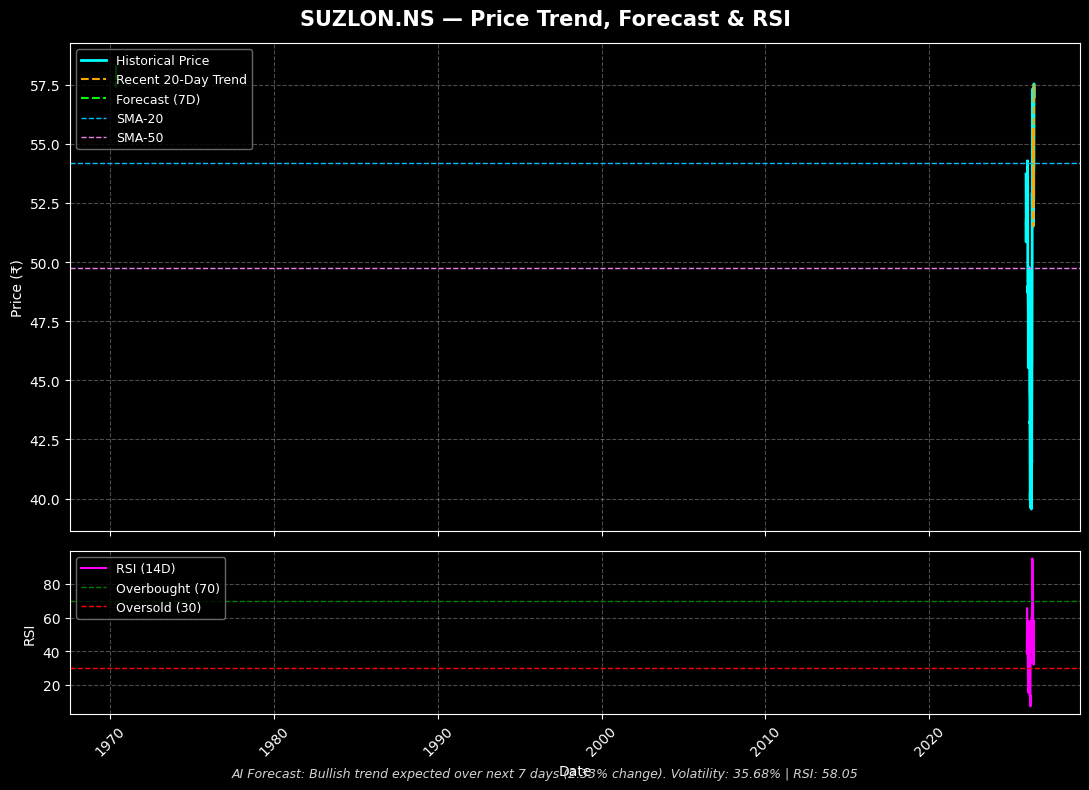
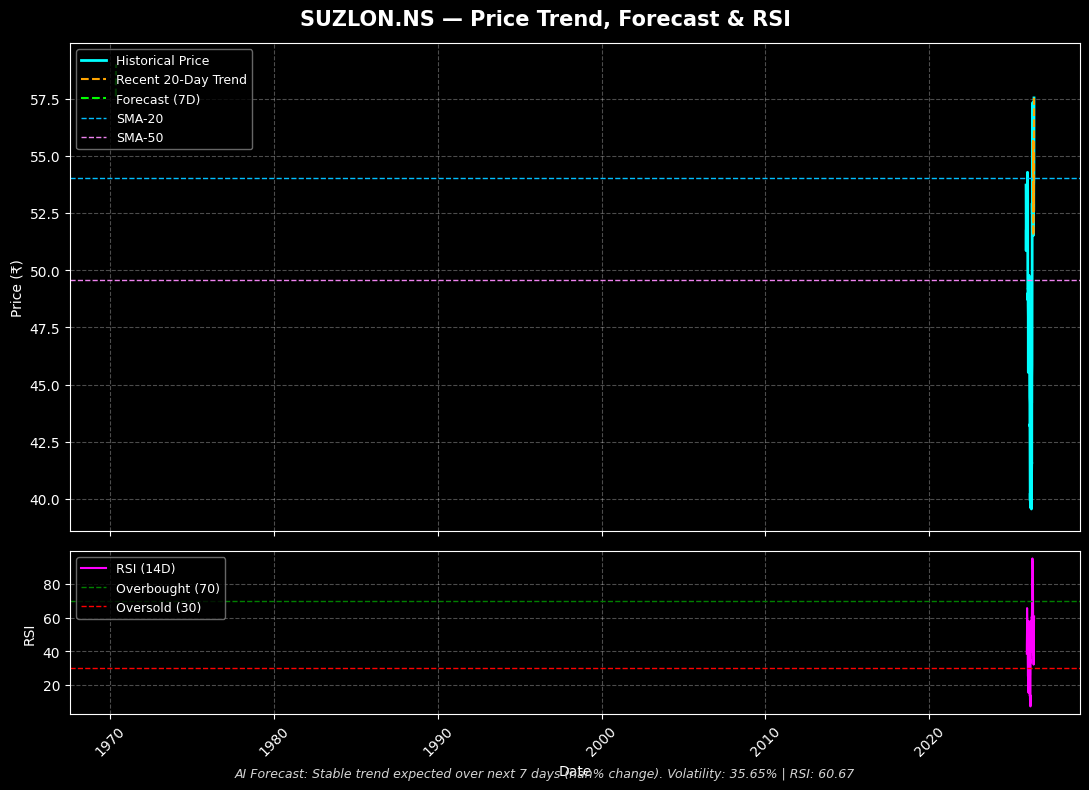
fix: sanitize investment JSON floats and complete sidebar navigation layout patches

diff --git a/DUNK.ai-main/frontend/src/components/ExploreSidebar.jsx b/DUNK.ai-main/frontend/src/components/ExploreSidebar.jsx
@@ -1,7 +1,9 @@
-import { X, TrendingUp, Wallet, AlertTriangle, Calculator, Shield, BarChart3 } from 'lucide-react';
+import { X, TrendingUp, Wallet, AlertTriangle, Calculator, Shield, BarChart3, Home } from 'lucide-react'; // 👈 Added Home here
 import { featurePrompts } from '../utils/featurePrompts';
+import { useNavigate } from 'react-router-dom'; // 👈 Added React Router's navigation hook
 
 const ExploreSidebar = ({ onClose, onPromptSelect }) => {
+  const navigate = useNavigate();
   const features = [
     {
       id: 'portfolio-manager',
@@ -47,11 +49,18 @@ const ExploreSidebar = ({ onClose, onPromptSelect }) => {
     }
   ];
 
-  return (
+return (
+    // 1. Keep the main backdrop absolute wrapper the same
     <div className="fixed inset-0 bg-black/50 backdrop-blur-sm z-50 flex justify-end">
-      <div className="w-full max-w-md bg-white dark:bg-dark-card h-full overflow-y-auto shadow-2xl">
+      
+      {/* 2. UPDATE THIS INNER WRAPPER CONTAINER DIV: */}
+      <div 
+        className="w-full max-w-md bg-white dark:bg-dark-card h-full overflow-y-auto shadow-2xl flex flex-col"
+        onWheel={(e) => e.stopPropagation()} // ⚡ FIX: Stops scroll wheels from leaking out to the main dashboard page!
+      >
         {/* Header */}
-        <div className="sticky top-0 bg-white dark:bg-dark-card border-b border-gray-200 dark:border-dark-border p-6 z-10">
+        {/* Header */}
+        <div className="sticky top-0 bg-white dark:bg-dark-card border-b border-gray-200 dark:border-dark-border p-6 z-10 space-y-4">
           <div className="flex items-center justify-between">
             <h2 className="text-2xl font-bold text-gray-900 dark:text-white">
               Explore
@@ -63,13 +72,26 @@ const ExploreSidebar = ({ onClose, onPromptSelect }) => {
               <X className="w-5 h-5" />
             </button>
           </div>
-          <p className="text-sm text-gray-600 dark:text-gray-400 mt-2">
+          <p className="text-sm text-gray-600 dark:text-gray-400">
             Choose a feature to get started with personalized prompts
           </p>
+
+          {/* 🏠 HOME ESCAPE HAT BUTTON */}
+          <button
+            onClick={() => {
+              navigate('/'); // Changes the route path back to your central landing page
+              onClose();     // Automatically closes the sidebar slide panel drawer
+            }}
+            className="w-full flex items-center space-x-3 p-3 rounded-xl bg-gray-100 dark:bg-dark-bg hover:bg-gray-200 dark:hover:bg-gray-800 text-gray-900 dark:text-white transition-all duration-200 border border-gray-200 dark:border-dark-border"
+          >
+            <Home className="w-5 h-5 text-gray-600 dark:text-gray-400" />
+            <span className="font-semibold text-sm">Return to Landing Page</span>
+          </button>
         </div>
 
         {/* Features List */}
-        <div className="p-6 space-y-6">
+        {/* ⚡ ADDED flex-1 here to make it expand smoothly inside the view block */}
+        <div className="p-6 space-y-6 flex-1 overflow-y-auto">
           {features.map(feature => (
             <div key={feature.id} className="space-y-3">
               {/* Feature Header */}
@@ -106,7 +128,8 @@ const ExploreSidebar = ({ onClose, onPromptSelect }) => {
         </div>
 
         {/* Footer Info */}
-        <div className="p-6 border-t border-gray-200 dark:border-dark-border bg-primary/5 dark:bg-primary/10">
+        {/* ⚡ ADDED sticky bottom tracking layout controls so this security shield stays pinned cleanly at the base */}
+        <div className="sticky bottom-0 p-6 border-t border-gray-200 dark:border-dark-border bg-gray-50 dark:bg-dark-card z-10">
           <div className="flex items-start space-x-3">
             <div className="w-10 h-10 bg-primary/20 rounded-lg flex items-center justify-center flex-shrink-0">
               <Shield className="w-5 h-5 text-primary" />

diff --git a/DUNK.ai-main/frontend/src/pages/ChatPageLayout.jsx b/DUNK.ai-main/frontend/src/pages/ChatPageLayout.jsx
@@ -1,7 +1,7 @@
 import { useState } from 'react';
 import { 
   Menu, X, Plus, Moon, Sun, User, LogOut, 
-  Settings, Brain, History, BarChart3
+  Settings, Brain, History, BarChart3, Home 
 } from 'lucide-react';
 import { useTheme } from '../contexts/ThemeContext';
 import { useAuth } from '../contexts/AuthContext';
@@ -60,8 +60,8 @@ const ChatPageLayout = ({ children, category }) => {
     <div className="flex h-screen bg-gray-50 dark:bg-dark-bg">
       {/* History Sidebar */}
       <div className={`${sidebarOpen ? 'w-64' : 'w-0'} transition-all duration-300 overflow-hidden bg-white dark:bg-dark-card border-r border-gray-200 dark:border-dark-border flex flex-col`}>
-        <div className="p-4 border-b border-gray-200 dark:border-dark-border">
-          <div className="flex items-center justify-between mb-4">
+        <div className="p-4 border-b border-gray-200 dark:border-dark-border space-y-3">
+          <div className="flex items-center justify-between mb-2">
             <div className="flex items-center space-x-2">
               <div className="w-8 h-8 bg-primary rounded-lg flex items-center justify-center">
                 <span className="text-white font-bold">D</span>
@@ -75,6 +75,15 @@ const ChatPageLayout = ({ children, category }) => {
               <X className="w-5 h-5" />
             </button>
           </div>
+
+          {/* 🏠 PERMANENT HOME NAVIGATION BUTTON */}
+<button
+  onClick={() => navigate('/chat')} // ⚡ FIX: Points straight to your unified master chat workspace view!
+  className="w-full flex items-center justify-center space-x-2 p-2.5 rounded-lg border border-gray-200 dark:border-dark-border bg-gray-50 dark:bg-dark-bg hover:bg-gray-100 dark:hover:bg-gray-800 text-gray-700 dark:text-gray-300 transition-all font-medium text-sm shadow-sm"
+>
+  <Home className="w-4 h-4 text-gray-500 dark:text-gray-400" />
+  <span>Dashboard Home</span>
+</button>
           
           <button 
             onClick={startNewChat}
@@ -213,7 +222,7 @@ const ChatPageLayout = ({ children, category }) => {
         <AnalyticsDashboard onClose={() => setAnalyticsOpen(false)} />
       )}
 
-      {/* Explore Sidebar */}
+      {/* Explore Sidebar Drawer */}
       {exploreOpen && (
         <ExploreSidebar 
           onClose={() => setExploreOpen(false)}
@@ -225,4 +234,3 @@ const ChatPageLayout = ({ children, category }) => {
 };
 
 export default ChatPageLayout;
-

diff --git a/DUNK.ai-main/frontend/src/components/chat/BaseChatLayout.jsx b/DUNK.ai-main/frontend/src/components/chat/BaseChatLayout.jsx
@@ -129,9 +129,12 @@ const BaseChatLayout = ({
   };
 
   return (
-    <div className="flex-1 flex flex-col">
+    // 💻 FIX LAYER 1: Enforce absolute, rigid viewport matching boundaries 
+    <div className="flex-1 h-screen flex flex-col overflow-hidden bg-[#050b0b]">
+      
       {/* Messages Area */}
-      <div className="flex-1 overflow-y-auto p-6">
+      {/* 💻 FIX LAYER 2: Isolate scrolling STRICTLY to this chat bubble/card compartment */}
+      <div className="flex-1 overflow-y-auto p-6 custom-scrollbar">
         {messages.length === 0 ? (
           /* Welcome Screen */
           <div className="max-w-3xl mx-auto text-center py-12">
@@ -195,7 +198,7 @@ const BaseChatLayout = ({
                       <Brain className="w-4 h-4 text-white" />
                     )}
                   </div>
-              <div className={`rounded-2xl p-4 ${
+                  <div className={`rounded-2xl p-4 ${
                     message.role === 'user'
                       ? 'bg-primary text-white'
                       : 'bg-white dark:bg-dark-card border border-gray-200 dark:border-dark-border'
@@ -224,7 +227,8 @@ const BaseChatLayout = ({
       </div>
 
       {/* Input Area */}
-      <div className="bg-white dark:bg-dark-card border-t border-gray-200 dark:border-dark-border p-4">
+      {/* 💡 Keep this pinned at the base layout border cleanly */}
+      <div className="bg-white dark:bg-dark-card border-t border-gray-200 dark:border-dark-border p-4 flex-shrink-0">
         <div className="max-w-3xl mx-auto">
           <form onSubmit={(e) => { e.preventDefault(); handleSend(); }} className="flex items-end space-x-3">
             <div className="flex-1 relative">
@@ -273,6 +277,5 @@ const BaseChatLayout = ({
     </div>
   );
 };
-
 export default BaseChatLayout;
 

diff --git a/DUNK.ai-main/backend/dunk_ai/api/routes/investment.py b/DUNK.ai-main/backend/dunk_ai/api/routes/investment.py
@@ -1,3 +1,4 @@
+import math
 from fastapi import APIRouter, HTTPException, Query
 
 from dunk_ai.services.investment_ai import InvestmentAI
@@ -7,10 +8,29 @@ router = APIRouter(prefix="/api/investment", tags=["Investment Navigator"])
 
 inv = InvestmentNavigator()
 
+
+def _sanitize_data(obj):
+    """
+    Recursively loops through dicts, lists, and floats to safely replace 
+    JSON-breaking NaN, Infinity, and -Infinity values with a safe None (null).
+    """
+    if isinstance(obj, dict):
+        return {k: _sanitize_data(v) for k, v in obj.items()}
+    elif isinstance(obj, list):
+        return [_sanitize_data(x) for x in obj]
+    elif isinstance(obj, float):
+        if math.isnan(obj) or math.isinf(obj):
+            return None  # Converts smoothly into valid 'null' inside JSON output strings
+    return obj
+
+
 def _ensure_success(data):
     if "error" in data:
         raise HTTPException(status_code=404, detail=data["error"])
-    return data
+    
+    # ⚡ THE CRITICAL FIX: Run the deep sanitation pass right here 
+    # before returning the payload to any route handler.
+    return _sanitize_data(data)
 
 
 @router.get("/stock/{ticker}")
@@ -19,6 +39,8 @@ def get_stock_details(ticker: str):
     try:
         data = _ensure_success(inv.get_stock_analytics(ticker))
         return data
+    except HTTPException:
+        raise
     except Exception as e:
         raise HTTPException(status_code=500, detail=str(e))
 
@@ -33,6 +55,8 @@ def get_stock_summary(ticker: str):
             "summary": data["insight_summary"],
             "predicted_trend": data.get("predicted_trend", "N/A")
         }
+    except HTTPException:
+        raise
     except Exception as e:
         raise HTTPException(status_code=500, detail=str(e))
 
@@ -47,6 +71,8 @@ def get_forecast_plot(ticker: str):
             "chart_path": data.get("forecast_chart_path"),
             "forecast_confidence": data.get("forecast_confidence")
         }
+    except HTTPException:
+        raise
     except Exception as e:
         raise HTTPException(status_code=500, detail=str(e))
 
@@ -56,9 +82,13 @@ def get_ai_insight(ticker: str):
     """
     Generate an AI-powered investment insight using DeepSeek R1 via Ollama.
     """
-    ai = InvestmentAI()
-    result = ai.generate_ai_insight(ticker)
-    return result
+    try:
+        ai = InvestmentAI()
+        result = ai.generate_ai_insight(ticker)
+        # Sanitizing AI output just in case the LLM returned structured mathematical matrices
+        return _sanitize_data(result)
+    except Exception as e:
+        raise HTTPException(status_code=500, detail=str(e))
 
 
 @router.get("/price/{query}")
@@ -95,7 +125,7 @@ def get_portfolio(user_id: str):
     Return a placeholder portfolio summary (future hook for DB integration).
     """
     try:
-        return inv.portfolio_summary(user_id)
+        data = inv.portfolio_summary(user_id)
+        return _sanitize_data(data)
     except Exception as exc:
         raise HTTPException(status_code=500, detail=str(exc)) from exc
-
